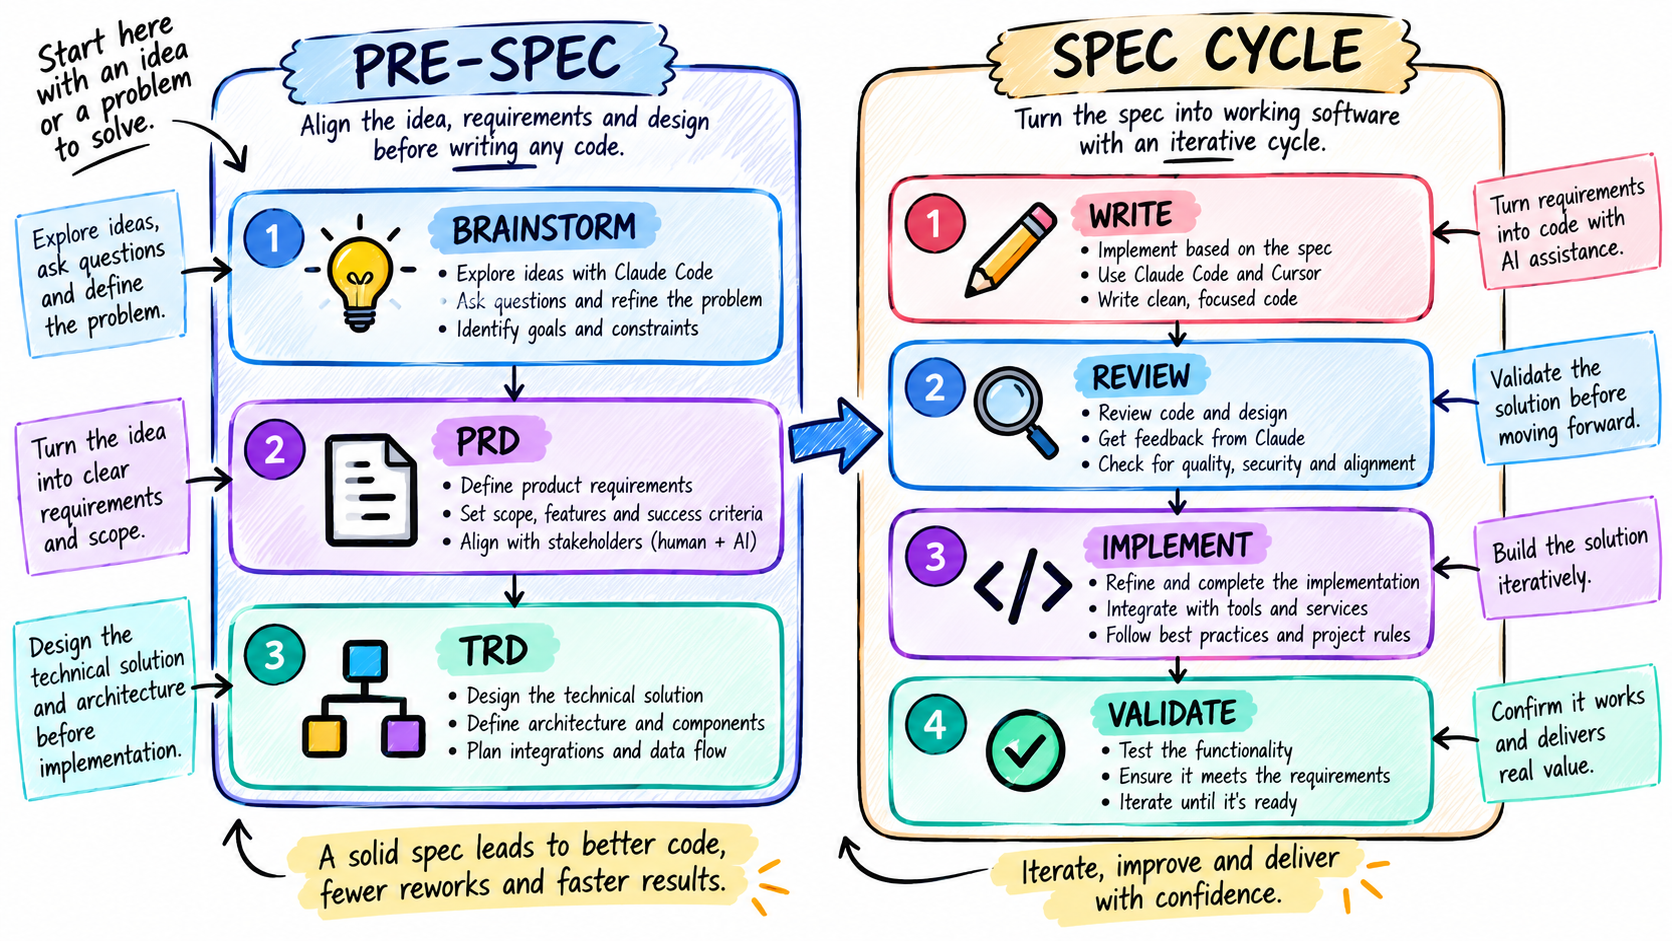
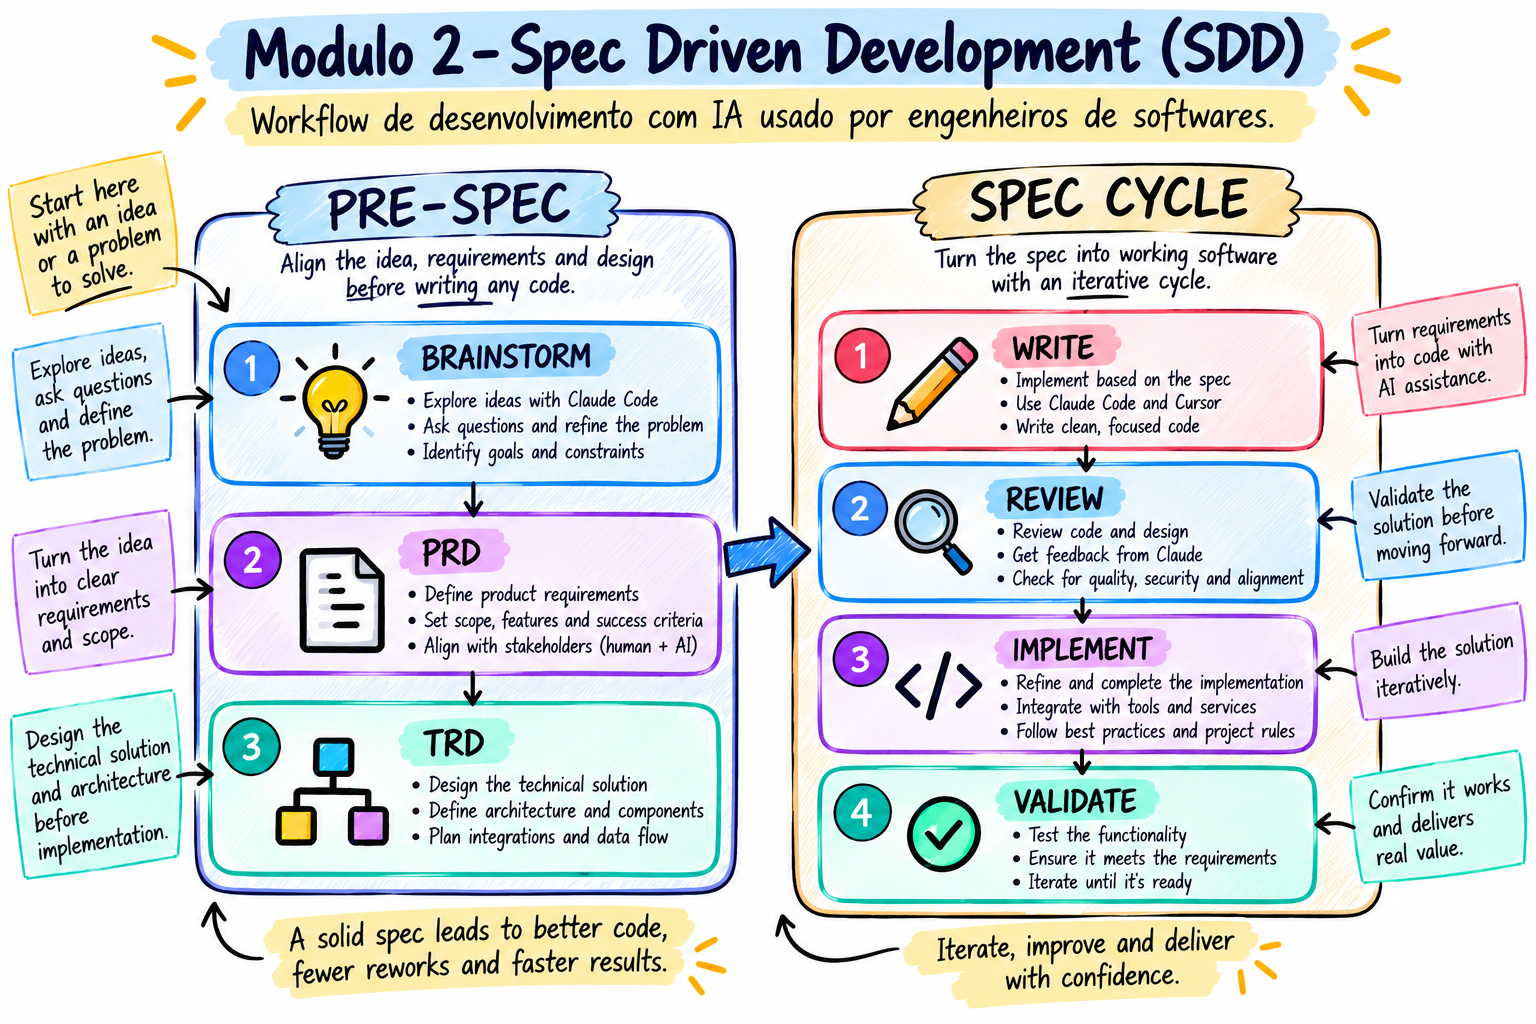
docs: add LinkedIn post for Module 5 — Issue Analysis

diff --git a/docs/publicacoes-linkedin/2026-10-23-issue-analysis-com-ia-modulo-5.md b/docs/publicacoes-linkedin/2026-10-23-issue-analysis-com-ia-modulo-5.md
@@ -1,0 +1,47 @@
+# Issue Analysis com IA — Módulo 5
+
+> Gerado em: 2026-10-23
+> Skill: `/salvar-contexto` → Módulo concluído
+> Tema: Módulo 5 — Issue Analysis com IA
+
+---
+
+## 💬 Comentário
+
+**PT:** Módulo 5 do AIAD publicado: Issue Analysis com IA. Antes do spec, antes dos testes — a issue precisa ser decomposta em tasks atômicas com CAs verificáveis. O `/analyze-issue` faz isso em 6 passos. [link deste post] | Série completa: [link do post de lançamento]
+
+**EN:** AIAD Module 5 is live: AI-powered Issue Analysis. Before the spec, before the tests — the issue needs to be decomposed into atomic tasks with verifiable ACs. The `/analyze-issue` skill does this in 6 steps. [link deste post] | Full series: [link do post de lançamento]
+
+---
+
+## 📝 PUBLICAÇÃO — PORTUGUÊS
+
+Transformei um fluxo de análise de issues em uma skill de 6 passos — do texto bruto ao spec pronto em minutos.
+
+🔎 O problema: issues chegam mal definidas. "Upload não funciona", "precisamos de JWT", "refatorar o UserService" — sem escopo, sem critérios de aceite, sem definição de pronto. O time implementa e descobre os gaps no PR review ou na produção. O Módulo 5 do AIAD estrutura esse processo com IA: a issue é classificada (Bug / Feature / Task técnica), as ambiguidades são listadas com perguntas de clarificação, a issue é decomposta em tasks atômicas — cada uma implementável e testável de forma independente — e os critérios de aceite são extraídos no formato "dado/quando/então". Uma feature de JWT com 5 linhas de texto virou 4 tasks atômicas com 10 CAs verificáveis.
+
+📋 A skill `/analyze-issue` implementa esse fluxo em 6 passos sequenciais. O passo 2 expõe as ambiguidades com perguntas diretas: quantos tokens são válidos simultaneamente? o logout invalida via blocklist no Redis ou só no cliente? Isso acontece antes de qualquer decomposição. O passo 5 gera o stub de spec no formato SDD e salva em `docs/specs/NNN-slug.md`. O stub já tem escopo dentro/fora, todos os CAs numerados e uma seção "campos em aberto" com o que falta para o spec estar completo. O resultado não é uma análise — é um artefato pronto para entrar no ciclo spec → testes → código do Módulo 2.
+
+💬 Como o seu time lida com issues mal definidas? Existe uma etapa formal de análise antes do desenvolvimento começar, ou isso vai emergindo durante a implementação? Conta nos comentários.
+
+#IssueAnalysis #CriteriosDeAceite #SpecDrivenDevelopment #RequirementsEngineering #AgileEngineering #ClaudeCode #AnthropicAPI #AIEngineering #SoftwareEngineering #DesenvolvimentoAgil #GenerativeAI #AIAssisted #LLMOps #TDD #ProductEngineering
+
+---
+
+## 📝 PUBLICAÇÃO — ENGLISH
+
+I built a 6-step issue analysis skill — from raw text to a complete spec stub in minutes.
+
+🔎 The problem: issues arrive half-formed. "Upload broken", "needs JWT", "refactor UserService" — no scope, no acceptance criteria, no definition of done. The team implements, discovers the gaps at PR review or in production. Module 5 of the AIAD project structures this with AI: the issue is classified (Bug / Feature / Tech task), ambiguities are surfaced with clarifying questions, the issue is decomposed into atomic tasks — each independently implementable and testable — and acceptance criteria are extracted in "given/when/then" format. A 5-line JWT feature request became 4 atomic tasks with 10 verifiable ACs.
+
+📋 The `/analyze-issue` skill implements this as a 6-step pipeline. Step 2 exposes ambiguities with direct questions: how many tokens can be valid simultaneously? does logout invalidate via Redis blocklist or only client-side? This happens before any decomposition. Step 5 generates a spec stub in SDD Module 2 format and saves it to `docs/specs/NNN-slug.md`. The stub includes in/out scope, all ACs numbered, and a "fields open" section with what still needs to be filled before the spec is complete. The output isn't a document — it's an artifact ready to enter the spec → tests → code cycle.
+
+💬 How does your team handle under-specified issues? Is there a formal analysis step before development starts, or does it unfold during implementation? Drop your approach in the comments.
+
+#IssueAnalysis #AcceptanceCriteria #SpecDrivenDevelopment #RequirementsEngineering #AgileEngineering #ClaudeCode #AnthropicAPI #AIEngineering #SoftwareEngineering #ProductEngineering #GenerativeAI #AIAssisted #LLMOps #TDD #Agile
+
+---
+
+## 🎨 IMAGE PROMPT
+
+A clean tech illustration showing a transformation pipeline on a dark background. On the left: a blurry sticky note or text bubble representing a vague, unstructured issue. In the center: a classification node branching into three labeled boxes (Bug, Feature, Task). From there, arrows flow into a decomposition tree with TASK-1, TASK-2, TASK-3 nodes connected by dependency arrows. On the right: a structured document icon with numbered acceptance criteria (CA-1, CA-2...) and a spec stub file. Neon cyan and purple accents, minimalist UI nodes, grid lines on dark background, professional. 1920x1080, landscape, LinkedIn cover format, no text.

diff --git a/docs/publicacoes-linkedin/2026-10-18-tdd-com-ia-modulo-3.md b/docs/publicacoes-linkedin/2026-10-18-tdd-com-ia-modulo-3.md
@@ -12,7 +12,7 @@
 
 **PT:** Módulo 3 publicado — TDD com IA: ciclo red-green-refactor com 6 prompts prontos, 3 templates (unit-pytest, unit-jest, integration-pytest) e 3 exemplos reais ligados aos specs do Módulo 2. Verificação binária: verde ou vermelho, sem interpretação. [link deste post]
 
-**EN:** Module 3 is up — TDD with AI: red-green-refactor cycle with 6 ready prompts, 3 templates (unit-pytest, unit-jest, integration-pytest), and 3 real examples linked to Module 2 specs. Binary verification: green or red, no room for interpretation. [link deste post]
+**EN:** Module 3 is up — TDD with AI: red-green-refactor cycle with 6 ready prompts, 3 templates (unit-pytest, unit-jest, integration-pytest), and 3 real examples linked to Module 2 specs. Binary verification: green or red, no room for interpretation. https://lnkd.in/p/dbZ6ea42
 
 ---
 
